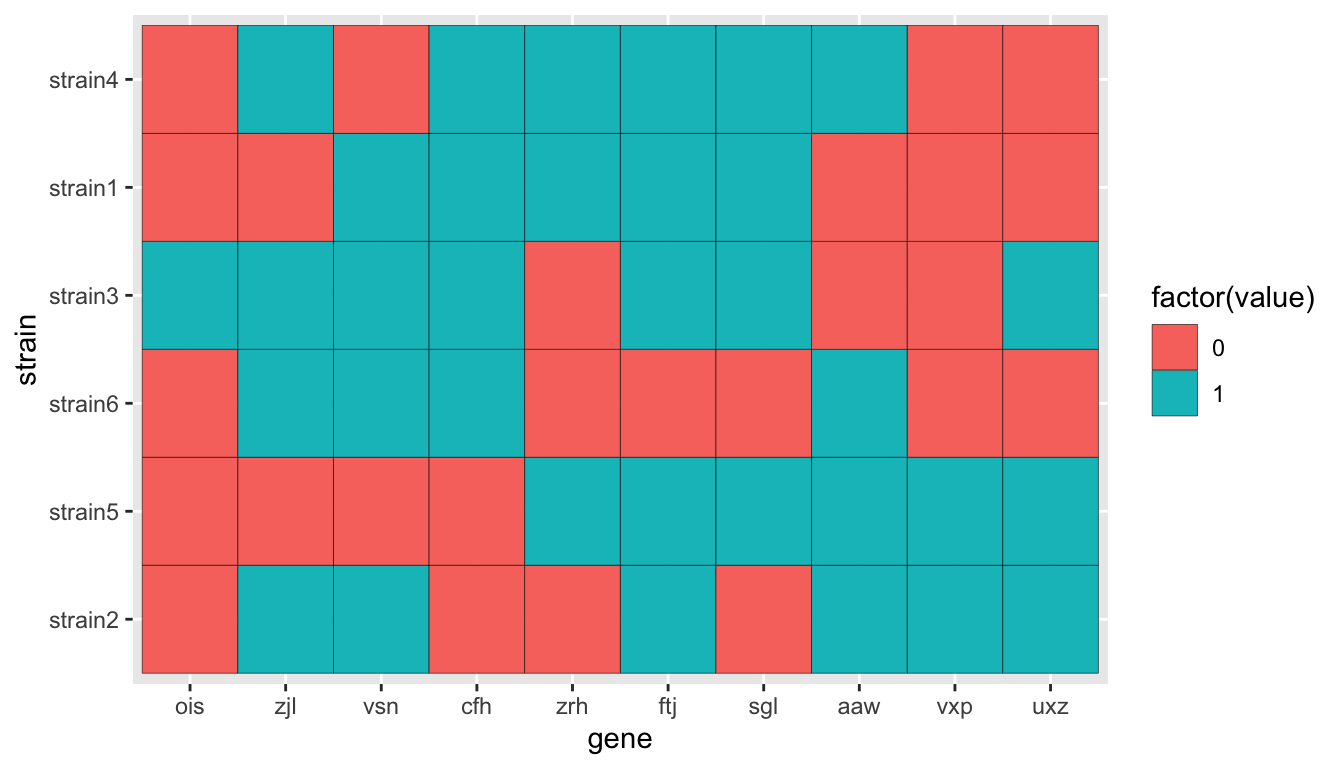
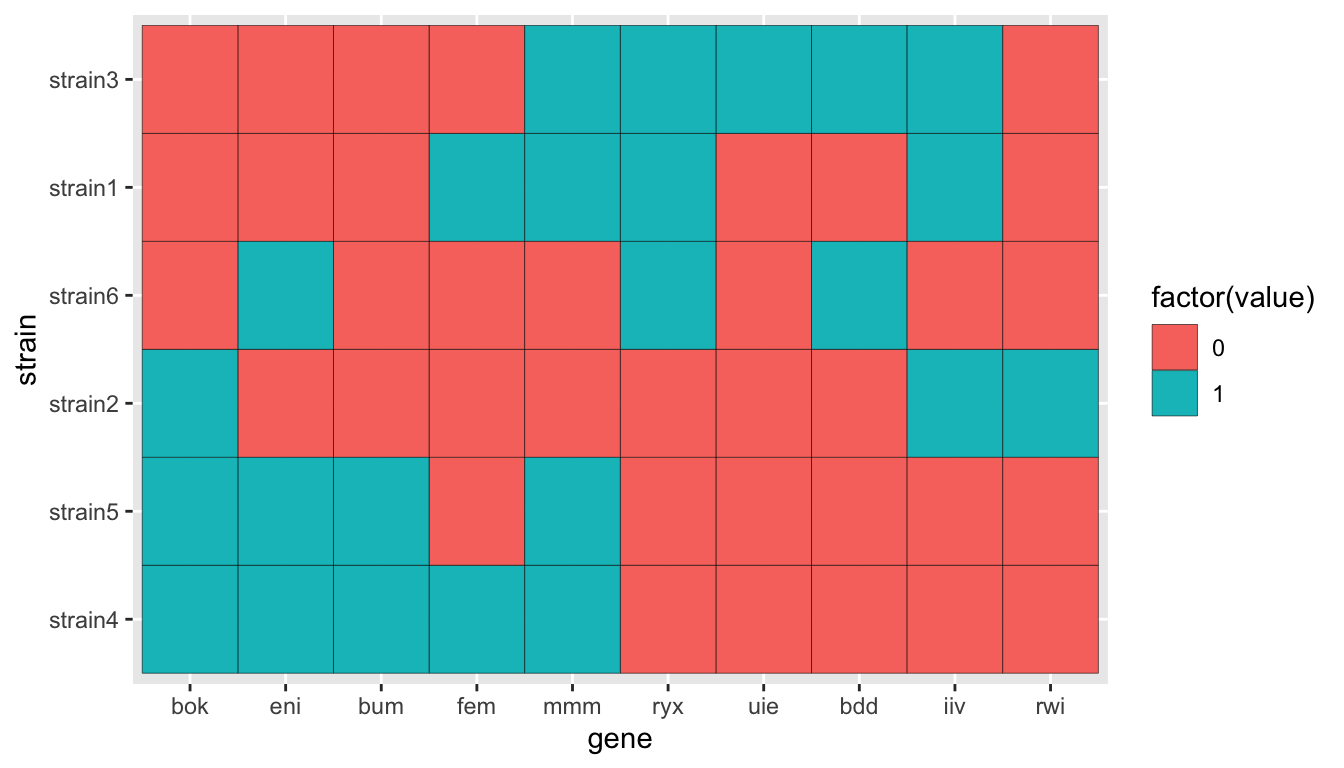
Built site for dendrolenda: 0.1.0@c79551e

diff --git a/reference/arrange_dendrogram.html b/reference/arrange_dendrogram.html
@@ -142,12 +142,12 @@
     </tr>
     <tr>
       <th>dendrogram_top</th>
-      <td><p>top dendrogram plot generated with 
+      <td><p>top dendrogram plot generated with
 <code><a href='plot_dendrogram.html'>plot_dendrogram</a></code></p></td>
     </tr>
     <tr>
       <th>dendrogram_right</th>
-      <td><p>right dendrogram plot generated with 
+      <td><p>right dendrogram plot generated with
 <code><a href='plot_dendrogram.html'>plot_dendrogram</a></code></p></td>
     </tr>
     <tr>
@@ -176,11 +176,11 @@ By default <code>NULL</code> leaving empty space.</p></td>
 <span class='kw'>dendro_right</span> <span class='op'>&lt;-</span> <span class='fu'><a href='plot_dendrogram.html'>plot_dendrogram</a></span>(<span class='kw'>d2</span>) <span class='op'>+</span> <span class='fu'><a href='https://ggplot2.tidyverse.org/reference/coord_flip.html'>coord_flip</a></span>()
 
 <span class='co'># Plot aligned dendrograms with legend at the bottom</span>
-<span class='fu'>arrange_dendrogram</span>(<span class='kw'>hm</span> <span class='op'>+</span> <span class='fu'><a href='https://ggplot2.tidyverse.org/reference/ggtheme.html'>theme_bw</a></span>() <span class='op'>+</span> <span class='fu'><a href='https://ggplot2.tidyverse.org/reference/theme.html'>theme</a></span>(legend.position = <span class='st'>"bottom"</span>), 
-<span class='kw'>dendro_top</span> <span class='op'>+</span> <span class='fu'><a href='https://ggplot2.tidyverse.org/reference/ggtheme.html'>theme_void</a></span>(), <span class='kw'>dendro_right</span> <span class='op'>+</span> <span class='fu'><a href='https://ggplot2.tidyverse.org/reference/ggtheme.html'>theme_void</a></span>())</div><div class='img'><img src='arrange_dendrogram-1.png' alt='' width='700' height='433' /></div><div class='img'><img src='arrange_dendrogram-2.png' alt='' width='700' height='433' /></div><div class='input'>
+<span class='fu'>arrange_dendrogram</span>(<span class='kw'>hm</span> <span class='op'>+</span> <span class='fu'><a href='https://ggplot2.tidyverse.org/reference/ggtheme.html'>theme_bw</a></span>() <span class='op'>+</span> <span class='fu'><a href='https://ggplot2.tidyverse.org/reference/theme.html'>theme</a></span>(legend.position = <span class='st'>"bottom"</span>),
+<span class='kw'>dendro_top</span> <span class='op'>+</span> <span class='fu'><a href='https://ggplot2.tidyverse.org/reference/ggtheme.html'>theme_void</a></span>(), <span class='kw'>dendro_right</span> <span class='op'>+</span> <span class='fu'><a href='https://ggplot2.tidyverse.org/reference/ggtheme.html'>theme_void</a></span>())</div><div class='img'><img src='arrange_dendrogram-1.png' alt='' width='700' height='433' /></div><div class='input'>
 <span class='co'># Plot aligned dendrograms with legend in the top right corner</span>
 <span class='fu'>arrange_dendrogram</span>(<span class='kw'>hm</span> <span class='op'>+</span> <span class='fu'><a href='https://ggplot2.tidyverse.org/reference/ggtheme.html'>theme_bw</a></span>() <span class='op'>+</span> <span class='fu'><a href='https://ggplot2.tidyverse.org/reference/theme.html'>theme</a></span>(legend.position = <span class='st'>"none"</span>),
-<span class='kw'>dendro_top</span> <span class='op'>+</span> <span class='fu'><a href='https://ggplot2.tidyverse.org/reference/ggtheme.html'>theme_void</a></span>(), <span class='kw'>dendro_right</span> <span class='op'>+</span> <span class='fu'><a href='https://ggplot2.tidyverse.org/reference/ggtheme.html'>theme_void</a></span>(), <span class='fu'><a href='get_legend.html'>get_legend</a></span>(<span class='kw'>hm</span>))</div><div class='img'><img src='arrange_dendrogram-3.png' alt='' width='700' height='433' /></div><div class='input'></div></pre>
+<span class='kw'>dendro_top</span> <span class='op'>+</span> <span class='fu'><a href='https://ggplot2.tidyverse.org/reference/ggtheme.html'>theme_void</a></span>(), <span class='kw'>dendro_right</span> <span class='op'>+</span> <span class='fu'><a href='https://ggplot2.tidyverse.org/reference/ggtheme.html'>theme_void</a></span>(), <span class='fu'><a href='get_legend.html'>get_legend</a></span>(<span class='kw'>hm</span>))</div><div class='img'><img src='arrange_dendrogram-2.png' alt='' width='700' height='433' /></div><div class='input'></div></pre>
   </div>
   <div class="col-md-3 hidden-xs hidden-sm" id="pkgdown-sidebar">
     <nav id="toc" data-toggle="toc" class="sticky-top">

diff --git a/articles/overview.html b/articles/overview.html
@@ -88,12 +88,12 @@
 <a href="#dendrolenda-package-usage" class="anchor"></a>dendrolenda package usage</h1>
 <p>Let’s plot heatmap with aligned dendrograms using the following randomly generated data:</p>
 <pre><code>##   gene  strain value
-## 1  vsn strain1     1
-## 2  vxp strain1     0
-## 3  ftj strain1     1
-## 4  cfh strain1     1
-## 5  aaw strain1     0
-## 6  sgl strain1     1</code></pre>
+## 1  eni strain1     0
+## 2  uie strain1     0
+## 3  fem strain1     1
+## 4  ryx strain1     1
+## 5  bok strain1     0
+## 6  bdd strain1     0</code></pre>
 <p>Create dendrograms:</p>
 <div class="sourceCode" id="cb2"><pre class="downlit">
 <span class="kw">d1</span> <span class="op">&lt;-</span> <span class="fu">create_dend</span>(<span class="kw">dat</span>, <span class="st">"gene"</span>, <span class="st">"strain"</span>)
@@ -121,12 +121,11 @@
 <span class="kw">d1</span> <span class="op">+</span> <span class="kw">d2</span>
 </pre></div>
 <p><img src="overview_files/figure-html/unnamed-chunk-4-1.png" width="672"></p>
-<p>Arrange all three plots with legend positioned at the bottom:</p>
+<p>Arrange all three plots with legend positioned at the bottom: aaa</p>
 <div class="sourceCode" id="cb5"><pre class="downlit">
 <span class="fu"><a href="../reference/arrange_dendrogram.html">arrange_dendrogram</a></span>(<span class="kw">hm</span> <span class="op">+</span> <span class="fu"><a href="https://ggplot2.tidyverse.org/reference/ggtheme.html">theme_bw</a></span>() <span class="op">+</span> <span class="fu"><a href="https://ggplot2.tidyverse.org/reference/theme.html">theme</a></span>(legend.position = <span class="st">"bottom"</span>),
                    <span class="kw">d1</span> <span class="op">+</span> <span class="fu"><a href="https://ggplot2.tidyverse.org/reference/ggtheme.html">theme_void</a></span>(),
-                   <span class="kw">d2</span> <span class="op">+</span> <span class="fu"><a href="https://ggplot2.tidyverse.org/reference/ggtheme.html">theme_void</a></span>(),
-                   <span class="fu"><a href="https://ggplot2.tidyverse.org/reference/ggplot.html">ggplot</a></span>() <span class="op">+</span> <span class="fu"><a href="https://ggplot2.tidyverse.org/reference/geom_blank.html">geom_blank</a></span>() <span class="op">+</span> <span class="fu"><a href="https://ggplot2.tidyverse.org/reference/ggtheme.html">theme_void</a></span>())
+                   <span class="kw">d2</span> <span class="op">+</span> <span class="fu"><a href="https://ggplot2.tidyverse.org/reference/ggtheme.html">theme_void</a></span>())
 </pre></div>
 <p><img src="overview_files/figure-html/unnamed-chunk-5-1.png" width="672"></p>
 <p>Arrange all three plots with legend positioned in the top-right corner:</p>
